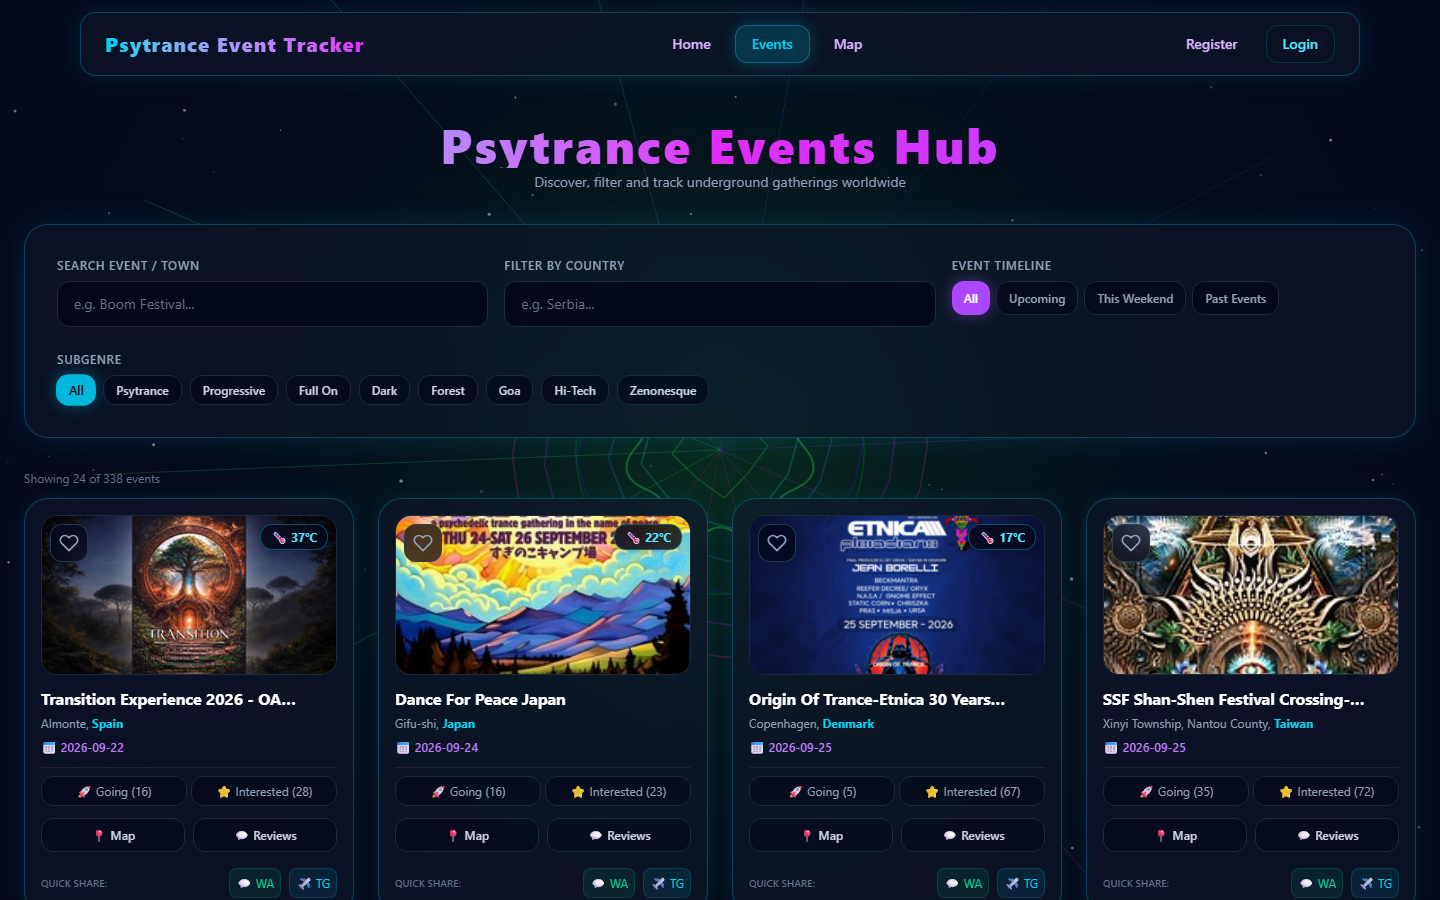
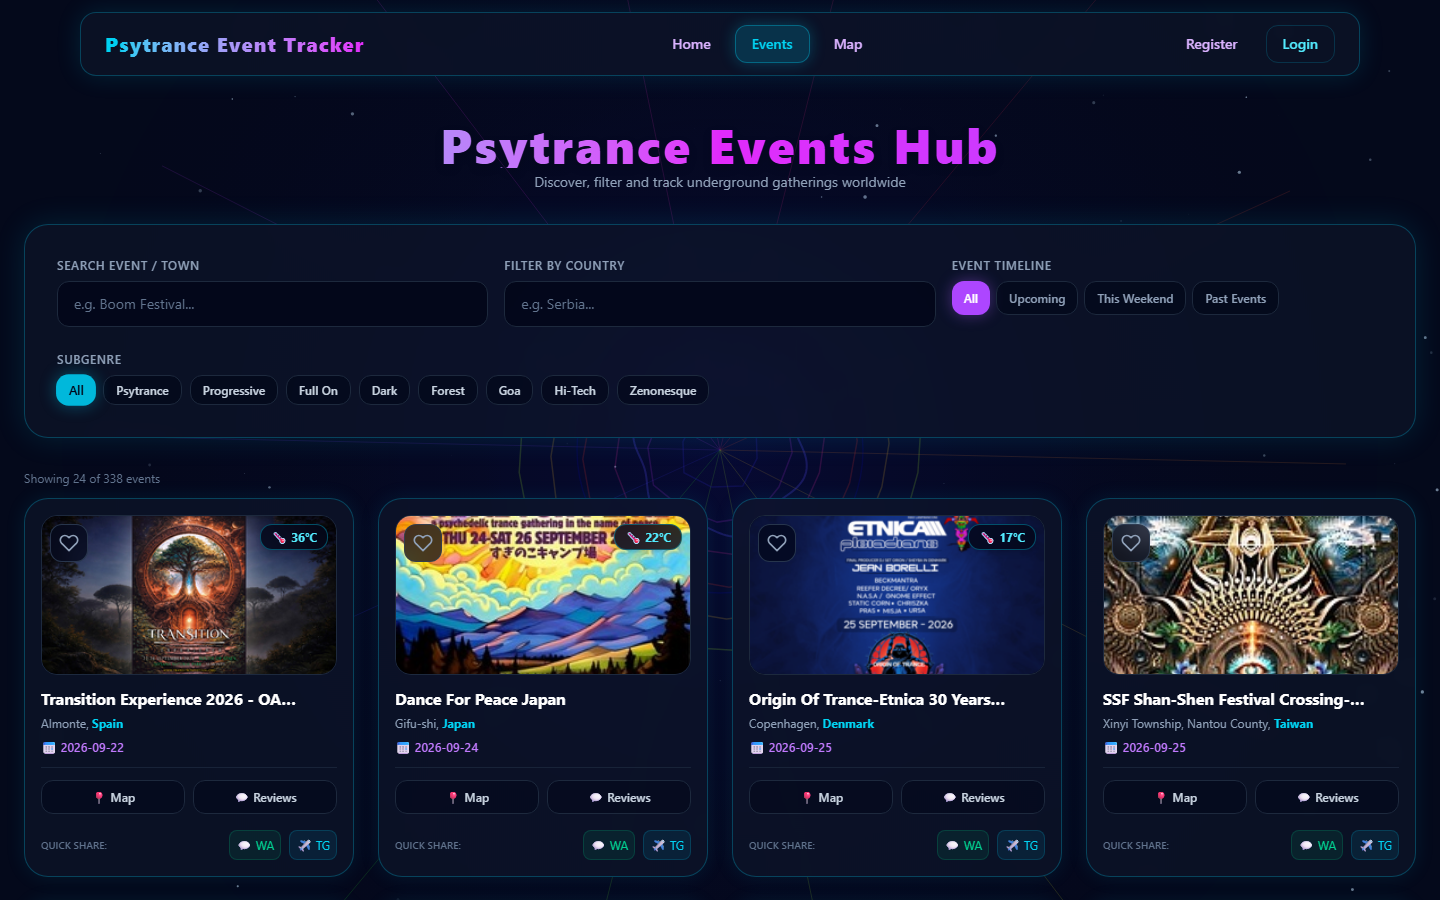
Translate Serbian text, remove fake attendance counts
- Serbian UI text and share message translated to English; comments that
  explain why translated, comments that only restated the code removed
- Guests clicking the favorite heart go to /login instead of an alert()
- Removed "Going / Interested": the numbers were derived from the event id
  and never saved
- Removed unused calendar.js; new Events screenshot

diff --git a/src/components/GoabaseEventCard.jsx b/src/components/GoabaseEventCard.jsx
@@ -1,4 +1,5 @@
 import { useState, useEffect, useContext } from 'react'
+import { useNavigate } from 'react-router-dom'
 import { useAuth } from '../context/AuthContext'
 import { FavoritesContext } from '../context/FavoritesContext'
 import ReviewSection from './ReviewSection'
@@ -20,6 +21,7 @@ function readCachedWeather(lat, lon) {
 
 function GoabaseEventCard({ event }) {
     const { user } = useAuth()
+    const navigate = useNavigate()
     const favoritesContext = useContext(FavoritesContext)
     const favorites = favoritesContext?.favorites || []
 
@@ -32,14 +34,7 @@ function GoabaseEventCard({ event }) {
 
     const isFavorite = favorites.some(fav => String(fav.eventId) === String(event.id))
 
-    const baseId = Number(event.id) || 100
-    const initialGoing = (baseId % 40) + 5
-    const initialInterested = (baseId % 85) + 12
-
-    const [attendance, setAttendance] = useState({ going: initialGoing, interested: initialInterested })
-    const [userStatus, setUserStatus] = useState(null)
-
-    // Optimizovan fetch prognoze sa Cache-om u sessionStorage i AbortController-om radi sprečavanja 429 error-a
+    // Current weather at the venue from Open-Meteo, cached per browser session
     useEffect(() => {
         const lat = event?.parsedLat || event?.lat || event?.geoLat
         const lon = event?.parsedLon || event?.lon || event?.geoLon
@@ -51,7 +46,7 @@ function GoabaseEventCard({ event }) {
 
         const controller = new AbortController()
         
-        // Dodajemo mali nasumični timeout da razbijemo istovremene zahteve ka Open-Meteo serveru
+        // Small random delay so 24 new cards don't all hit Open-Meteo at once (it rate-limits with 429)
         const timeoutId = setTimeout(() => {
             fetch(`https://api.open-meteo.com/v1/forecast?latitude=${lat}&longitude=${lon}&current_weather=true`, {
                 signal: controller.signal
@@ -66,10 +61,8 @@ function GoabaseEventCard({ event }) {
                         sessionStorage.setItem(cacheKey, JSON.stringify(data.current_weather))
                     }
                 })
-                .catch(err => {
-                    if (err.name !== 'AbortError') {
-                        // Tiho zanemarujemo greške u konzoli da ne opterećujemo log
-                    }
+                .catch(() => {
+                    // Weather is a nice extra: if it fails, the card simply has no weather badge
                 })
         }, Math.random() * 800)
 
@@ -80,41 +73,20 @@ function GoabaseEventCard({ event }) {
     }, [event])
 
     const handleToggleFavorite = () => {
-        if (typeof favoritesContext?.toggleFavorite === 'function') {
-            favoritesContext.toggleFavorite(event)
-        } else if (isFavorite && typeof favoritesContext?.removeFavorite === 'function') {
-            favoritesContext.removeFavorite(event.id)
-        } else if (!isFavorite && typeof favoritesContext?.addFavorite === 'function') {
-            favoritesContext.addFavorite(event)
-        }
+        // Favorites are saved per account, so guests are sent to log in first
+        if (!user) return navigate('/login')
+        favoritesContext.toggleFavorite(event)
     }
 
-    const handleAttendance = (type) => {
-        if (!user) return alert("Prijavi se da označiš dolazak!")
-        
-        if (userStatus === type) {
-            setUserStatus(null)
-            setAttendance(prev => ({ ...prev, [type]: prev[type] - 1 }))
-        } else {
-            if (userStatus) {
-                setAttendance(prev => ({ ...prev, [userStatus]: prev[userStatus] - 1 }))
-            }
-            setUserStatus(type)
-            setAttendance(prev => ({ ...prev, [type]: prev[type] + 1 }))
-        }
-    }
-
-    const shareText = encodeURIComponent(`Hej! Pogledaj ovaj psytrance događaj: ${event.nameParty} u mestu ${event.nameTown}! 🛸`)
+    const shareText = encodeURIComponent(`Check out this psytrance event: ${event.nameParty} in ${event.nameTown}! 🛸`)
     const shareUrl = encodeURIComponent(event.urlPartyHtml || window.location.href)
 
-    // Pouzdaniji fallback url za sliku preko placehold.co
     const fallbackImage = 'https://placehold.co/400x200/0f172a/06b6d4?text=Psytrance+Gathering'
 
     return (
         <div className="bg-slate-900/60 backdrop-blur-md border border-cyan-500/30 rounded-3xl p-4 flex flex-col justify-between shadow-[0_0_20px_rgba(6,182,212,0.1)] hover:border-cyan-400/60 hover:shadow-[0_0_25px_rgba(6,182,212,0.25)] transition-all relative group">
             
             <div>
-                {/* Slika Događaja sa Weather Badge-om i Neonskim Srce Dugmetom */}
                 <div className="relative h-40 w-full rounded-2xl overflow-hidden mb-3 border border-slate-800 bg-slate-950">
                     <img 
                         src={event.urlImageMedium || event.urlImage || fallbackImage} 
@@ -123,7 +95,6 @@ function GoabaseEventCard({ event }) {
                         className="w-full h-full object-cover"
                     />
 
-                    {/* Neonsko Srce Dugme */}
                     <button
                         onClick={handleToggleFavorite}
                         className={`absolute top-2 left-2 p-2 rounded-xl backdrop-blur-md border transition-all duration-300 cursor-pointer z-10 ${
@@ -155,7 +126,6 @@ function GoabaseEventCard({ event }) {
                     )}
                 </div>
 
-                {/* Naslov i Lokacija */}
                 <h3 className="font-bold text-base text-white line-clamp-1 mb-1" title={event.nameParty}>
                     {event.nameParty}
                 </h3>
@@ -167,30 +137,7 @@ function GoabaseEventCard({ event }) {
                 </p>
             </div>
 
-            {/* Bottom Actions: Attendance & Share */}
             <div className="space-y-3 pt-2 border-t border-slate-800/80">
-                <div className="flex items-center justify-between text-xs gap-1">
-                    <button 
-                        onClick={() => handleAttendance('going')}
-                        className={`px-2.5 py-1.5 rounded-xl border transition-all cursor-pointer flex-1 text-center ${
-                            userStatus === 'going' 
-                                ? 'bg-emerald-500/20 text-emerald-300 border-emerald-500/50 font-bold' 
-                                : 'bg-slate-950/50 text-slate-400 border-slate-800 hover:text-white'
-                        }`}
-                    >
-                        🚀 Going ({attendance.going})
-                    </button>
-                    <button 
-                        onClick={() => handleAttendance('interested')}
-                        className={`px-2.5 py-1.5 rounded-xl border transition-all cursor-pointer flex-1 text-center ${
-                            userStatus === 'interested' 
-                                ? 'bg-amber-500/20 text-amber-300 border-amber-500/50 font-bold' 
-                                : 'bg-slate-950/50 text-slate-400 border-slate-800 hover:text-white'
-                        }`}
-                    >
-                        ⭐ Interested ({attendance.interested})
-                    </button>
-                </div>
 
 
                 <div className="flex gap-2 mt-1">

diff --git a/src/pages/GlobalMap.jsx b/src/pages/GlobalMap.jsx
@@ -7,7 +7,6 @@ import L from 'leaflet'
 import markerIconPng from 'leaflet/dist/images/marker-icon.png'
 import markerShadowPng from 'leaflet/dist/images/marker-shadow.png'
 
-// Standardna plava ikonica
 const defaultIcon = new L.Icon({
     iconUrl: markerIconPng,
     shadowUrl: markerShadowPng,
@@ -16,7 +15,7 @@ const defaultIcon = new L.Icon({
     popupAnchor: [1, -34]
 })
 
-// Highlighted narandžasta ikonica za pretražene objekte
+// Orange pin for events that match the search
 const highlightIcon = new L.Icon({
     iconUrl: 'https://raw.githubusercontent.com/pointhi/leaflet-color-markers/master/img/marker-icon-2x-orange.png',
     shadowUrl: markerShadowPng,
@@ -25,7 +24,7 @@ const highlightIcon = new L.Icon({
     popupAnchor: [1, -34]
 })
 
-// Pomoćna komponenta za glatko pomeranje mape na prvu matches lokaciju
+// Leaflet's map object is only reachable from a child of MapContainer, hence this tiny component
 function MapFlyTo({ targetCoords }) {
     const map = useMap()
     useEffect(() => {
@@ -72,7 +71,6 @@ function GlobalMap() {
         }
     }, [])
 
-    // Provera da li event odgovara pretrazi
     const isMatch = (event) => {
         if (!searchTerm.trim()) return false
         const term = searchTerm.toLowerCase()
@@ -83,7 +81,7 @@ function GlobalMap() {
         )
     }
 
-    // Kada korisnik unese pojam za pretragu, nađemo prvu match lokaciju za flyTo
+    // Fly the map to the first town or country that matches the search
     const handleSearchChange = (e) => {
         const value = e.target.value
         setSearchTerm(value)
@@ -104,7 +102,6 @@ function GlobalMap() {
     return (
         <div className="max-w-7xl mx-auto px-4 py-8 flex flex-col items-center">
             
-            {/* Header + Pretraga Bar */}
             <div className="w-full mb-6 flex flex-col md:flex-row justify-between items-center gap-4">
                 <div>
                     <h1 className="text-3xl sm:text-5xl font-extrabold tracking-wider bg-gradient-to-r from-cyan-400 via-fuchsia-500 to-purple-500 bg-clip-text text-transparent drop-shadow-lg">
@@ -115,7 +112,6 @@ function GlobalMap() {
                     </span>
                 </div>
 
-                {/* Futuriski input za pretragu sa indikatorom poklapanja */}
                 <div className="relative w-full md:w-96">
                     <input
                         type="text"
@@ -132,7 +128,6 @@ function GlobalMap() {
                 </div>
             </div>
 
-            {/* Futuriski stakleni kontejner za mapu */}
             {loading ? (
                 <div className="w-full h-[70vh] bg-slate-900/60 backdrop-blur-md rounded-3xl border border-cyan-500/30 flex items-center justify-center shadow-[0_0_30px_rgba(6,182,212,0.15)]">
                     <p className="text-cyan-400 text-xl animate-pulse tracking-widest">[ LOADING GLOBAL PARTY MARKERS... ]</p>
@@ -155,7 +150,6 @@ function GlobalMap() {
                             url="https://tiles.stadiamaps.com/tiles/alidade_smooth_dark/{z}/{x}/{y}{r}.png"
                         />
                             
-                            {/* Komponenta koja pomera kameru kada se unese država */}
                             <MapFlyTo targetCoords={targetCoords} />
 
                             {events.map(event => {

diff --git a/src/context/FavoritesContext.jsx b/src/context/FavoritesContext.jsx
@@ -27,21 +27,19 @@ export function FavoritesProvider({ children }) {
     }, [user?.id, token])
 
     async function addFavorite(event) {
+        // Guests never get here: the event card sends them to /login first
         const activeUserId = user?.id
-        if (!activeUserId) return alert("Prijavi se da dodaš u omiljene!")
+        if (!activeUserId) return
 
-        // Pripremamo ID i ime bez obzira da li je prosleđen ceo objekat ili pojedinačni string
+        // Accepts a whole event object or just its id
         const eventId = String(event?.id || event)
         const eventName = event?.nameParty || event?.name || event?.eventName || 'Untitled Event'
 
         try {
-            // Šaljemo čist JSON body ka bekendu
             const response = await api.post(`/api/favorites/${activeUserId}`, {
                 eventId,
                 eventName
             })
-
-            // Ažuriramo stanje sa novim favoritom sa bekenda
             setFavorites(prev => [...prev, response.data])
         } catch (err) {
             console.error("Failed to add favorite:", err)

diff --git a/src/context/AuthContext.jsx b/src/context/AuthContext.jsx
@@ -9,7 +9,7 @@ export function AuthProvider({ children }) {
         const savedToken = localStorage.getItem('token')
         return savedToken && savedToken !== 'undefined' ? savedToken : null
     })
-    // True dok proveravamo postojeći token na mount-u, da ProtectedRoute ne baci korisnika na /login prerano
+    // True while a saved token is being checked, so ProtectedRoute doesn't send the user to /login too early
     const [loading, setLoading] = useState(() => {
         const savedToken = localStorage.getItem('token')
         return Boolean(savedToken && savedToken !== 'undefined')
@@ -36,8 +36,6 @@ export function AuthProvider({ children }) {
     async function login(username, password) {
         try {
             const response = await api.post('/api/auth/login', { username, password })
-            
-            // Backend vraća {"token": "eyJ..."}
             const receivedToken = response.data?.token
 
             if (!receivedToken) {

diff --git a/src/pages/Favorites.jsx b/src/pages/Favorites.jsx
@@ -16,11 +16,10 @@ function Favorites() {
 
             {favorites.length === 0 ? (
                 <div className="text-center py-16 bg-slate-900/60 backdrop-blur-md rounded-3xl border border-cyan-500/30 shadow-[0_0_30px_rgba(6,182,212,0.15)] max-w-xl mx-auto">
-                    <p className="text-slate-300 text-lg font-medium">Favorites je prazan!</p>
+                    <p className="text-slate-300 text-lg font-medium">No favorites yet</p>
                     <p className="text-slate-500 text-xs mt-1">Explore events and add them to your favorites list.</p>
                 </div>
             ) : (
-                /* Na telefonima 1 kolona jedna ispod druge, na računarima 3 kolone sa skaliranim slikama */
                 <div className="grid grid-cols-1 sm:grid-cols-2 lg:grid-cols-3 gap-6">
                     {favorites.map(favorite => (
                         <FavoriteCard key={favorite.id} favorite={favorite} />

diff --git a/src/components/ProtectedRoute.jsx b/src/components/ProtectedRoute.jsx
@@ -4,7 +4,7 @@ import { useAuth } from '../context/AuthContext'
 function ProtectedRoute({ children }) {
     const { user, loading } = useAuth()
 
-    // Dok se provera autentifikacije učitava, prikaži utišanu poruku
+    // Wait for AuthContext to check a saved token before deciding, or a refresh would bounce to /login
     if (loading) {
         return (
             <div className="min-h-[70vh] flex items-center justify-center">
@@ -13,12 +13,10 @@ function ProtectedRoute({ children }) {
         )
     }
 
-    // Ako korisnik nije ulogovan, preusmeri ga na /login
     if (!user) {
         return <Navigate to="/login" replace />
     }
 
-    // Ako je ulogovan, prikaži traženu stranicu
     return children
 }
 

diff --git a/src/pages/Profile.jsx b/src/pages/Profile.jsx
@@ -9,7 +9,7 @@ function Profile() {
     const [userReviews, setUserReviews] = useState([])
     const [loadingReviews, setLoadingReviews] = useState(true)
 
-    // Clamp na 0-5 da String.repeat ne baci RangeError za neispravne/van-opsega ocene
+    // Keep ratings within 0-5, because String.repeat throws a RangeError for negative counts
     const clampRating = (value) => Math.max(0, Math.min(5, Math.round(Number(value) || 0)))
 
     useEffect(() => {

diff --git a/src/App.jsx b/src/App.jsx
@@ -35,7 +35,7 @@ function App() {
                 <Route path="/forgot-password" element={<ForgotPassword />} />
                 <Route path="/reset-password" element={<ResetPassword />} />
 
-                {/* Zaštićene rute — vidljive samo ulogovanim korisnicima */}
+                {/* Only for logged-in users; guests are redirected to /login */}
                 <Route 
                   path="/favorites" 
                   element={

diff --git a/src/components/EventMap.jsx b/src/components/EventMap.jsx
@@ -19,7 +19,7 @@ function EventMap({ lat, lon, partyName, locationName }) {
     const [loading, setLoading] = useState(!coords)
 
     useEffect(() => {
-        // Ako API nije dao koordinate, tražimo ih preko naziva lokacije
+        // Events without coordinates are looked up by town and country instead
         if (!lat || !lon) {
             async function geocodeLocation() {
                 try {

diff --git a/src/components/ReviewSection.jsx b/src/components/ReviewSection.jsx
@@ -24,8 +24,6 @@ function ReviewSection({ eventId }) {
 
     async function handleSubmit(e) {
         e.preventDefault()
-        if (!user) return alert('Please login to leave a review!')
-
         setSubmitting(true)
         try {
             const updatedReview = await submitEventReview(eventId, rating, comment)

diff --git a/README.md b/README.md
@@ -68,8 +68,7 @@ src/
 ├── components/   # Event cards, the infinite event feed, maps, reviews, navbar, background
 ├── context/      # AuthContext (user + token), FavoritesContext
 ├── hooks/        # useDebouncedValue
-├── pages/        # Home, Events, GlobalMap, Favorites, Profile, Login, Register, ForgotPassword, ResetPassword
-└── utils/
+└── pages/        # Home, Events, GlobalMap, Favorites, Profile, Login, Register, ForgotPassword, ResetPassword
 ```
 
 ### How the event list works
